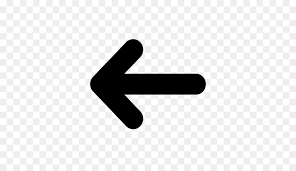
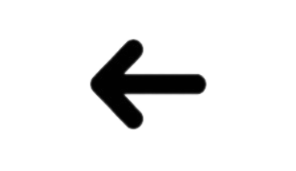
Final-demo_interface-VNS

diff --git a/app/src/main/assets/maptiler.html b/app/src/main/assets/maptiler.html
@@ -1,5 +1,6 @@
 <!DOCTYPE html>
 <html lang="vi">
+
 <head>
     <meta charset="UTF-8">
     <meta name="viewport" content="width=device-width, initial-scale=1.0">
@@ -14,23 +15,29 @@
             margin: 0;
             padding: 0;
         }
+
         #map {
             width: 100%;
             height: 100vh;
         }
-        #search-container, #order-container {
+
+        #search-container,
+        #order-container {
             position: absolute;
             width: 100%;
             display: flex;
             justify-content: center;
             z-index: 1000;
         }
+
         #search-container {
-            top: 20px;
+            top: 50px;
         }
+
         #order-container {
             bottom: 20px;
         }
+
         #search-input {
             padding: 10px;
             font-size: 16px;
@@ -40,7 +47,9 @@
             margin-right: 10px;
             width: 60%;
         }
-        #search-button, #order-button {
+
+        #search-button,
+        #order-button {
             padding: 10px 20px;
             font-size: 16px;
             border-radius: 5px;
@@ -50,86 +59,120 @@
             cursor: pointer;
             transition: background-color 0.3s;
         }
-        #search-button:hover, #order-button:hover {
+
+        #search-button:hover,
+        #order-button:hover {
             background-color: #0056b3;
         }
+
         #order-button {
             margin-left: 10px;
         }
+
         #distance {
             margin-left: 10px;
         }
+
+        .rollback {
+            position: absolute;
+            top: 10px;
+            z-index: 1001;
+        }
+
+        .rb {
+            height: 20px;
+            width: 50px;
+        }
+
+        .rb img {
+            width: 100%;
+        }
+
+        a{
+            text-decoration: none !important;
+            outline: none !important;
+            -webkit-tap-highlight-color: transparent;
+        }
     </style>
 </head>
+
 <body>
-<div id="map"></div>
-<div id="search-container">
-    <input type="text" id="search-input" placeholder="Nhập địa chỉ">
-    <button id="search-button">Tìm kiếm</button>
-</div>
-<div id="order-container">
-    <button id="order-button">Đặt Xe</button>
-    <span id="distance"></span>
-</div>
+    <div id="map"></div>
 
-<script src="https://unpkg.com/leaflet/dist/leaflet.js"></script>
-<script>
-    const nominatimUrl = 'https://nominatim.openstreetmap.org/search?format=json&q=';
-    const markerList = [];
-    var map = L.map('map', {
-        scrollWheelZoom: true,
-        zoomControl: false
-    }).setView([51.505, -0.09], 13);
+    <a href="homev2.html" class="rollback">
+        <div class="rb">
+            <img src="images/rollback.png" alt="">
+        </div>
+    </a>
 
-    L.tileLayer('https://{s}.tile.openstreetmap.org/{z}/{x}/{y}.png', {
-        attribution: '&copy; <a href="https://www.openstreetmap.org/copyright">OpenStreetMap</a> contributors'
-    }).addTo(map);
-    //
-    // Lấy vị trí
-    if ('geolocation' in navigator) {
-        navigator.geolocation.getCurrentPosition(function(position) {
-            var lat = position.coords.latitude;
-            var lng = position.coords.longitude;
-            map.setView([lat, lng], 13);
-        });
-    } else {
-        Android.showAlert('Trình duyệt này không hỗ trợ định vị.');
-    }
+    <div id="search-container">
+        <input type="text" id="search-input" placeholder="Nhập địa chỉ">
+        <button id="search-button">Tìm kiếm</button>
+    </div>
+    <div id="order-container">
+        <button id="order-button">Đặt Xe</button>
+        <span id="distance"></span>
+    </div>
 
-    document.getElementById('search-button').addEventListener('click', function() {
-        const searchQuery = document.getElementById('search-input').value;
-        fetchLocation(searchQuery);
-    });
+    <script src="https://unpkg.com/leaflet/dist/leaflet.js"></script>
+    <script>
+        const nominatimUrl = 'https://nominatim.openstreetmap.org/search?format=json&q=';
+        const markerList = [];
+        var map = L.map('map', {
+            scrollWheelZoom: true,
+            zoomControl: false
+        }).setView([51.505, -0.09], 13);
 
-    document.getElementById('order-button').addEventListener('click', function() {
-        if (markerList.length === 2) {
-            const distance = markerList[0].getLatLng().distanceTo(markerList[1].getLatLng());
-            Android.showAlert(`Tính năng đang được phát triển`);
+        L.tileLayer('https://{s}.tile.openstreetmap.org/{z}/{x}/{y}.png', {
+            attribution: '&copy; <a href="https://www.openstreetmap.org/copyright">OpenStreetMap</a> contributors'
+        }).addTo(map);
+        //
+        // Lấy vị trí
+        if ('geolocation' in navigator) {
+            navigator.geolocation.getCurrentPosition(function (position) {
+                var lat = position.coords.latitude;
+                var lng = position.coords.longitude;
+                map.setView([lat, lng], 13);
+            });
         } else {
-            Android.showAlert('Vui lòng chọn điểm đi và điểm đến trước khi đặt xe.');
+            Android.showAlert('Trình duyệt này không hỗ trợ định vị.');
         }
-    });
 
-    function fetchLocation(query) {
-        fetch(nominatimUrl + query)
-            .then(response => response.json())
-            .then(data => {
-                if (data.length > 0) {
-                    const { lat, lon } = data[0];
-                    map.setView([lat, lon], 25);
-                    const marker = L.marker([lat, lon]).addTo(map);
-                    markerList.push(marker);
-                    map.fitBounds(marker.getBounds().pad(0.5));
-                    if (markerList.length === 2) {
-                        const distance = markerList[0].getLatLng().distanceTo(markerList[1].getLatLng());
-                        document.getElementById('distance').textContent = `Khoảng cách: ${(distance / 1000).toFixed(2)} km`;
+        document.getElementById('search-button').addEventListener('click', function () {
+            const searchQuery = document.getElementById('search-input').value;
+            fetchLocation(searchQuery);
+        });
+
+        document.getElementById('order-button').addEventListener('click', function () {
+            if (markerList.length === 2) {
+                const distance = markerList[0].getLatLng().distanceTo(markerList[1].getLatLng());
+                Android.showAlert(`Tính năng đang được phát triển`);
+            } else {
+                Android.showAlert('Vui lòng chọn điểm đi và điểm đến trước khi đặt xe.');
+            }
+        });
+
+        function fetchLocation(query) {
+            fetch(nominatimUrl + query)
+                .then(response => response.json())
+                .then(data => {
+                    if (data.length > 0) {
+                        const { lat, lon } = data[0];
+                        map.setView([lat, lon], 25);
+                        const marker = L.marker([lat, lon]).addTo(map);
+                        markerList.push(marker);
+                        map.fitBounds(marker.getBounds().pad(0.5));
+                        if (markerList.length === 2) {
+                            const distance = markerList[0].getLatLng().distanceTo(markerList[1].getLatLng());
+                            document.getElementById('distance').textContent = `Khoảng cách: ${(distance / 1000).toFixed(2)} km`;
+                        }
+                    } else {
+                        Android.showAlert('Không tìm thấy địa chỉ');
                     }
-                } else {
-                    Android.showAlert('Không tìm thấy địa chỉ');
-                }
-            })
-            .catch(error => console.error(error));
-    }
-</script>
+                })
+                .catch(error => console.error(error));
+        }
+    </script>
 </body>
+
 </html>

diff --git a/app/src/main/assets/notification.html b/app/src/main/assets/notification.html
@@ -33,44 +33,27 @@
     <link rel="stylesheet" href="css/styleindex.css">
 </head>
 
-<body style="background-color: #f4f4f4;">
+<body style="background-color: #f4f4f4;margin-top: -5px;">
+
+    <div class="container-fluid" style="padding: 10px;padding-left: 0;background-color: white;">
+        <a href="homev2.html" class="rollback">
+            <div class="rb">
+                <img src="images/rollback.png" alt="">
+            </div>
+        </a>
+        <h1 style="font-weight: bolder; padding: 10px 20px;width: 80%;
+            margin-top: 10px; border-radius: 20px; color: black;
+            font-family: Arial, Helvetica, sans-serif;background-color: white;">
+            Thông báo
+        </h1>
+    </div>
 
     <div class="container-fluid" style="padding: 0;">
-        <h1 style="font-weight: bolder; text-align: center; padding: 10px 40px;
-            background-image: linear-gradient(#10CC9B,#1978DB); width: 80%;
-            margin: 30px auto; border-radius: 20px; color: rgb(217, 232, 233);">
-            THÔNG BÁO
-        </h1>
+
         <p style="font-style: italic;margin-top: 270px;font-weight: 20px;
             text-align: center;">Chưa có thông báo nào</p>
     </div>
 
-    <div class="header_section footer">
-        <div class="container-fluid" style="padding: 0;">
-            <div class="control">
-
-                <a href="index.html" class="ctr-item">
-                    <img src="images/icon-home.png" alt="">
-                    <h6 style="padding: 0;">Trang chủ</h6>
-                </a>
-
-                <a href="notification.html" class="ctr-item  ctr-active">
-                    <img src="images/icon-noti.png" alt="">
-                    <h6 style="padding: 0;color: red;font-weight: bold;">Thông báo</h6>
-                </a>
-
-                <a href="rank.html" class="ctr-item">
-                    <img src="images/icon-rank.jpg" alt="">
-                    <h6 style="padding: 0;">Hạng TV</h6>
-                </a>
-
-                <a href="account.html" class="ctr-item">
-                    <img src="images/icon-user.png" alt="">
-                    <h6 style="padding: 0;">Tài khoản</h6>
-                </a>
-            </div>
-        </div>
-    </div>
     <!-- Javascript files-->
     <script src="js/jquery.min.js"></script>
     <script src="js/popper.min.js"></script>

diff --git a/app/src/main/assets/homev2.html b/app/src/main/assets/homev2.html
@@ -56,14 +56,14 @@
                     <p class="nav-choice">Lịch sử đặt xe</p>
                 </a>
 
-                <a href="" class="nav-item">
+                <a href="rank.html" class="nav-item">
                     <div class="nav-icon">
                         <img src="images/icon-5.png" alt="">
                     </div>
                     <p class="nav-choice">Hạng thành viên</p>
                 </a>
 
-                <a href="" class="nav-item">
+                <a href="notification.html" class="nav-item">
                     <div class="nav-icon">
                         <img src="images/mail-icon.png" alt="">
                     </div>

diff --git a/app/src/main/assets/css/stylehome.css b/app/src/main/assets/css/stylehome.css
@@ -95,20 +95,21 @@ a{
 .item-image{
     width: 100%;
     text-align: center;
+    margin: 15px auto;
 }
 .item-image img{
-    width: 80%;
+    width: 90%;
 }
 .item{
     box-shadow: 2px 2px 10px rgba(207, 197, 197, 0.7);
     text-align: center;
     display: block;
     border-radius: 30px;
-    padding-top: 5px;
-    margin: 30px 30px;
+    padding: 15px;
+    margin: 30px;
 }
 .item-head{
-    margin-bottom: 0;
+    margin: 10px;
 }
 
 
@@ -217,5 +218,4 @@ a{
     color: #42D4FB;
     background-color: rgb(151, 145, 145);
 }
-//
 

diff --git a/app/src/main/assets/css/styleindex.css b/app/src/main/assets/css/styleindex.css
@@ -57,3 +57,9 @@
 .ctr-active{
     border-top: solid 2px red;
 }
+
+.rb{
+    height: auto;
+    width: 15%;
+    margin: 1%;
+}
